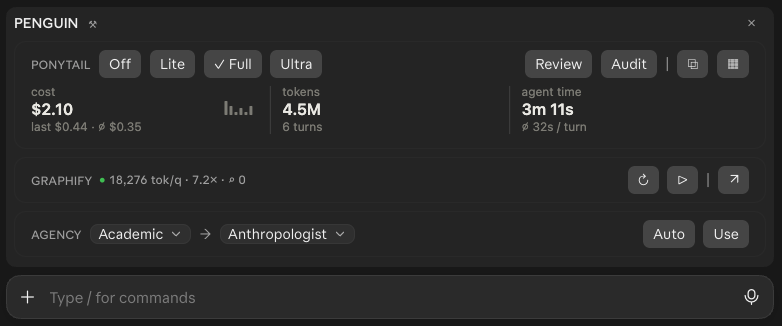
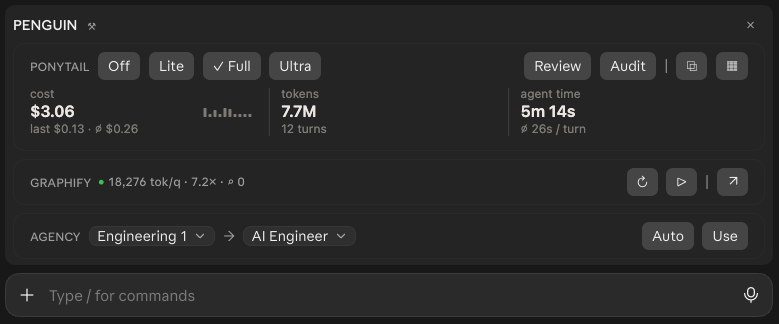
Update toolbar screenshot in README

diff --git a/README.md b/README.md
@@ -16,7 +16,7 @@ A toolbar for Claude Code that sits right above the prompt box and puts your fav
 [![Issues](https://img.shields.io/github/issues/shaiksajid-in/penguin)](https://github.com/shaiksajid-in/penguin/issues)
 [![Claude Code plugin](https://img.shields.io/badge/Claude%20Code-plugin-d97757)](https://docs.claude.com/en/docs/claude-code/plugins)
 
-<img src="docs/screenshots/toolbar.png" alt="The PENGUIN toolbar above the Claude Code prompt box, with Ponytail, Graphify and Agency sections" width="782">
+<img src="docs/screenshots/toolbar.png" alt="The PENGUIN toolbar above the Claude Code prompt box, with Ponytail, Graphify and Agency sections" width="779">
 
 </div>
 
